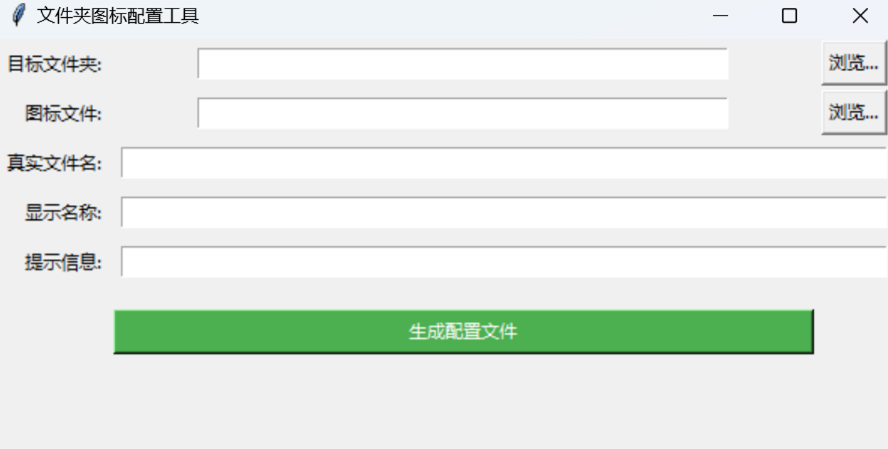
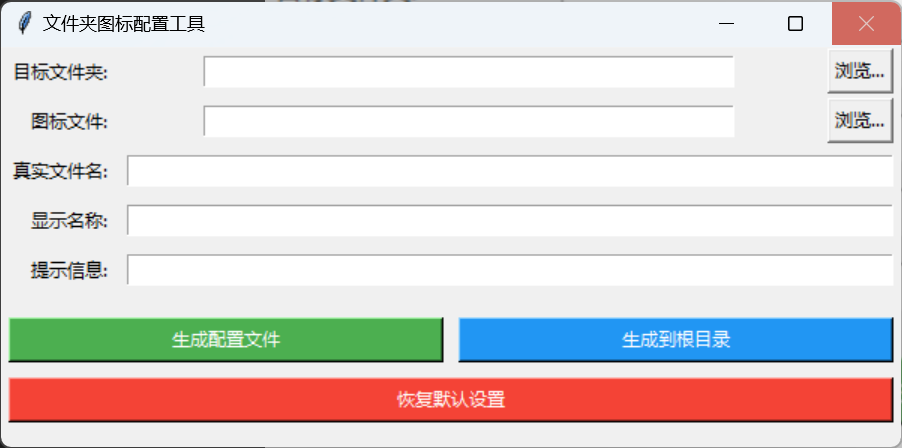
更新README文档

diff --git a/README.md b/README.md
@@ -1,3 +1,35 @@
 # FolderMagic
-文件夹图标及其他内容配置工具
-![](https://raw.githubusercontent.com/quanmouren/FolderMagic/refs/heads/main/res/image.png)
+🖼 文件夹图标配置工具
+
+![界面预览](https://raw.githubusercontent.com/quanmouren/FolderMagic/main/res/image.png)
+
+## 🚀 使用方法
+
+1. 安装库
+```
+pip install tkinterdnd2
+```
+2. 运行主程序
+```
+python main.py
+```
+3. 将文件夹或图标文件（支持 `.dll[0]`/`.png`/`.jpg`/`.ico`）拖入窗口
+4. 等待或手动刷新资源管理器（在任务管理器中重启`Windows资源管理器`）
+5. 生成配置：
+ - 生成配置文件：在目标文件夹内复制一份图标文件
+ - 生成到根目录：图标将保存在驱动器根目录的 \ICOconfig\ 目录下（适合U盘便携使用）
+
+## ⚠ 注意事项
+
+1. 程序将会创建/修改`desktop.ini`文件，如需手动编辑需要在文件夹选项的查看中关闭`隐藏受保护的操作系统文件(推荐)`
+2. 生成配置文件将覆盖原有`desktop.ini`文件，不推荐修改系统`桌面`、`下载`、`应用`、`文档`、`音乐`、`视频`和`地图`默认保存位置的文件夹
+
+## 🔧 实现原理
+
+通过修改系统文件 desktop.ini 的 IconResource 属性：
+```
+[.ShellClassInfo]
+LocalizedResourceName=当鼠标悬浮在文件夹上时显示的提示信息
+InfoTip=在资源管理器中显示的名字
+IconResource=图标文件,0
+```
